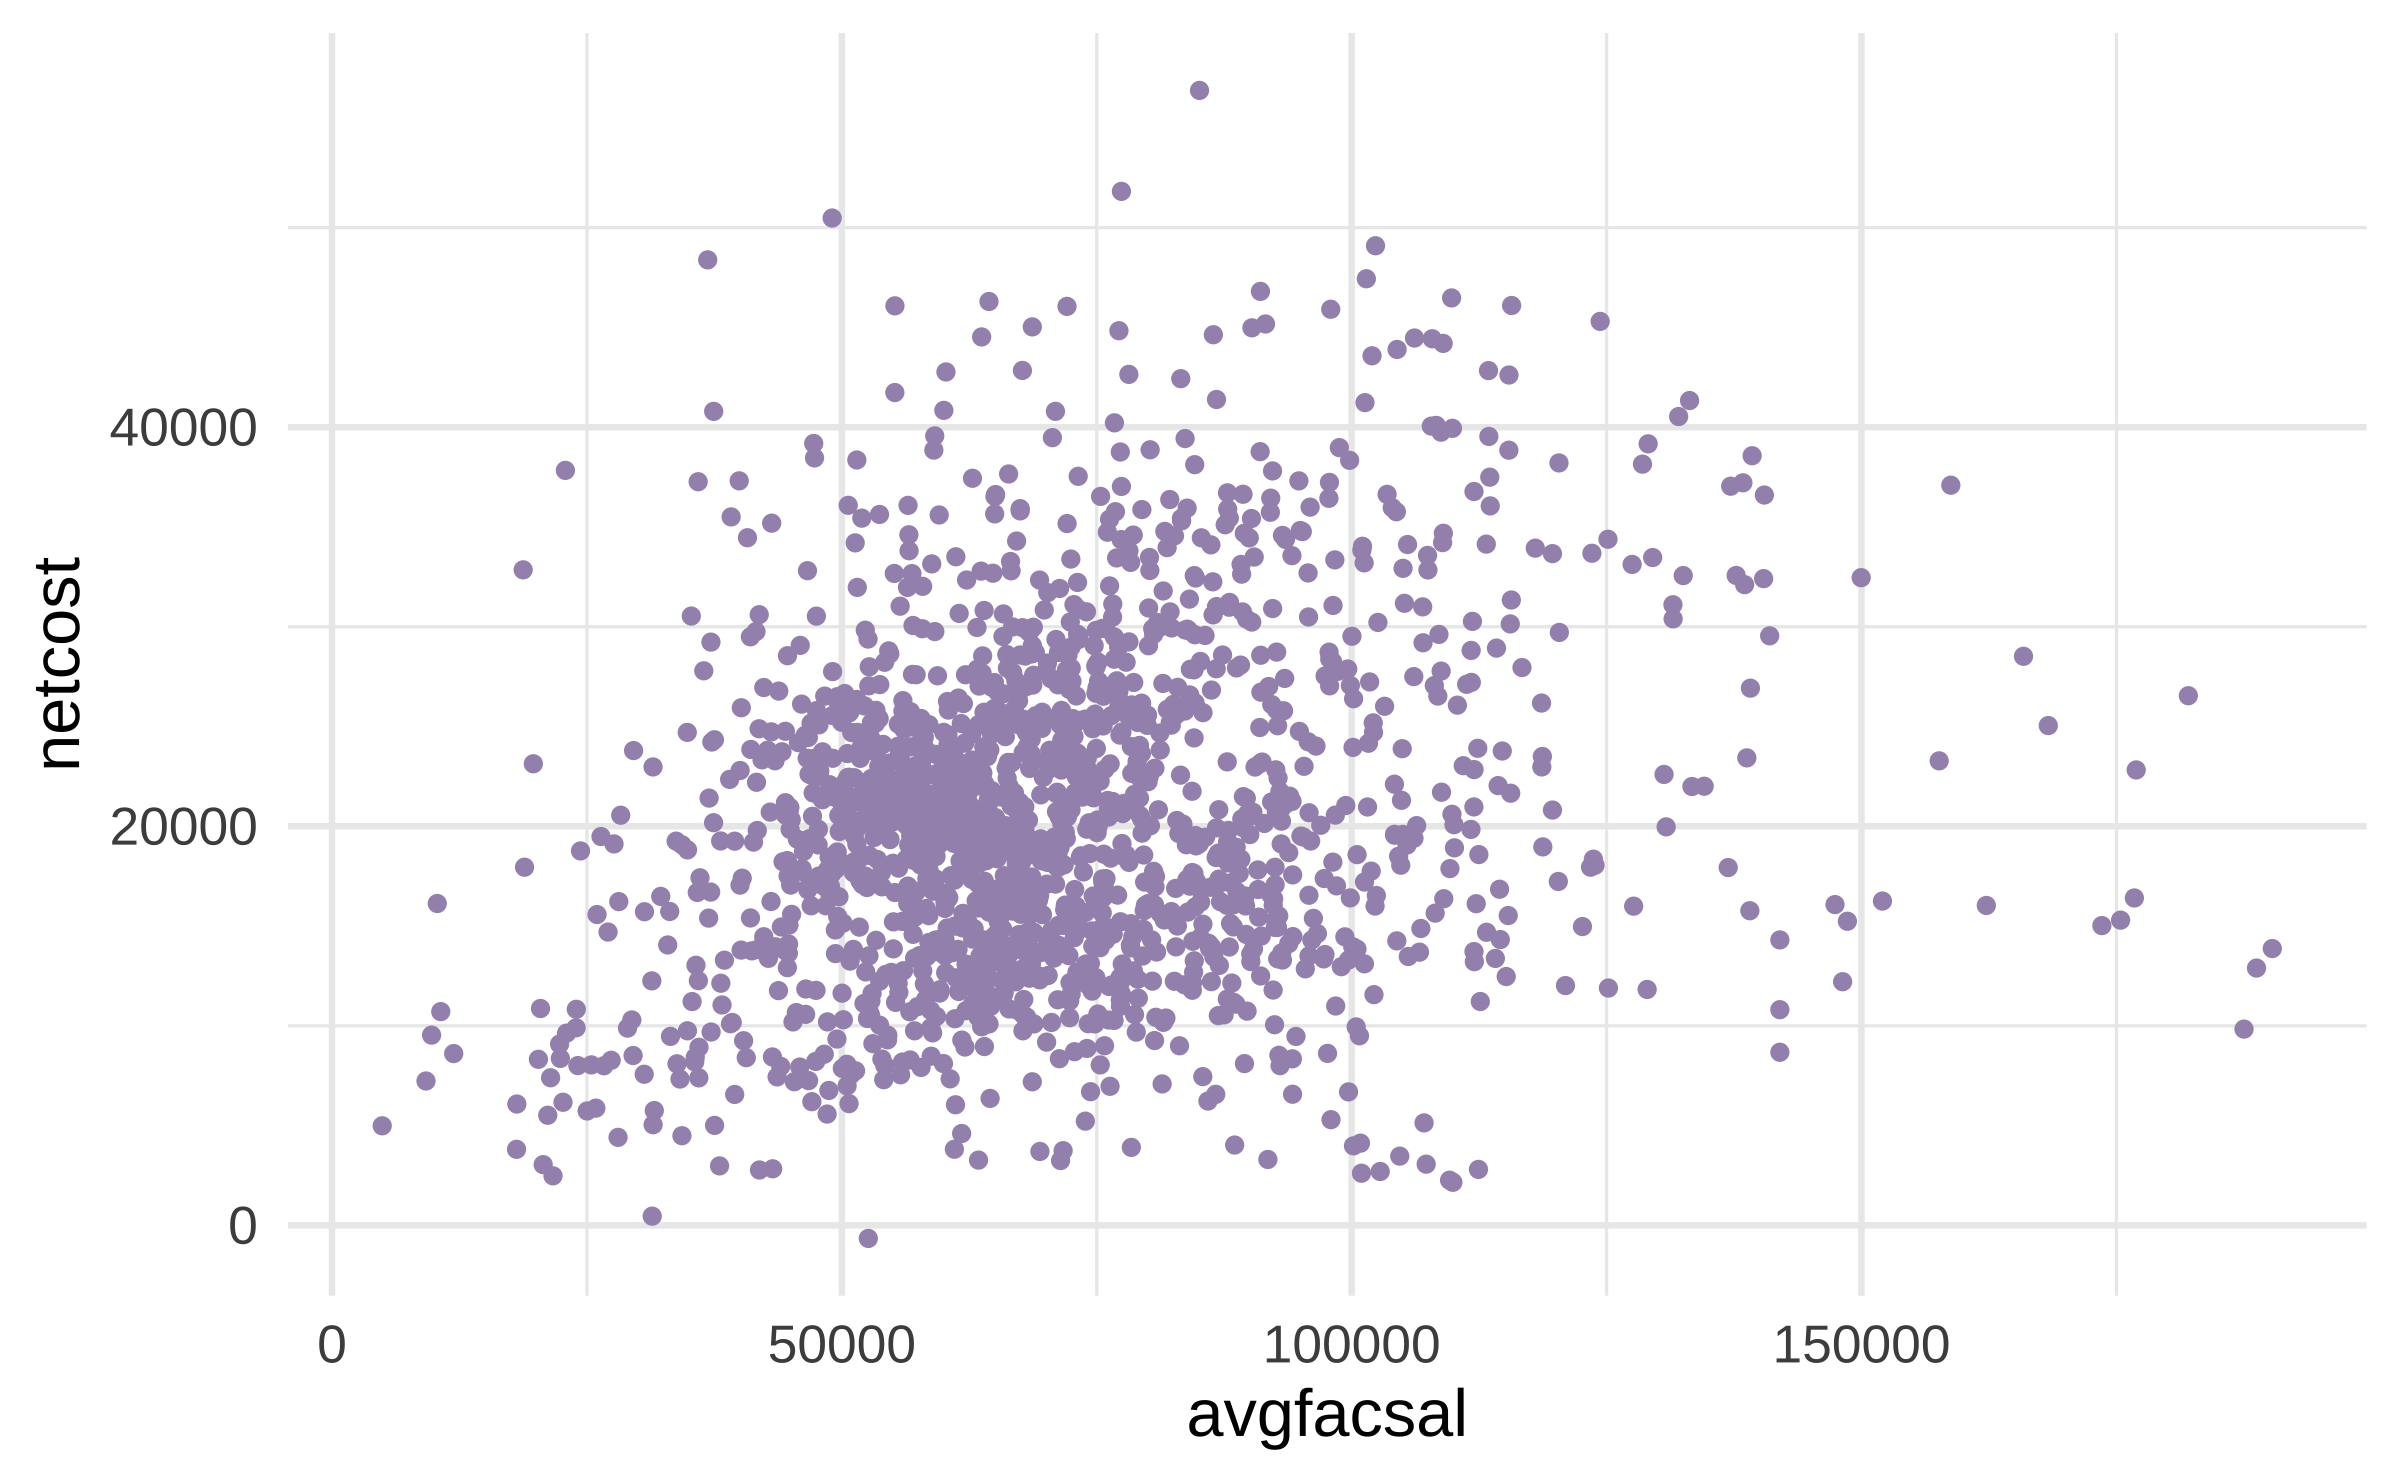
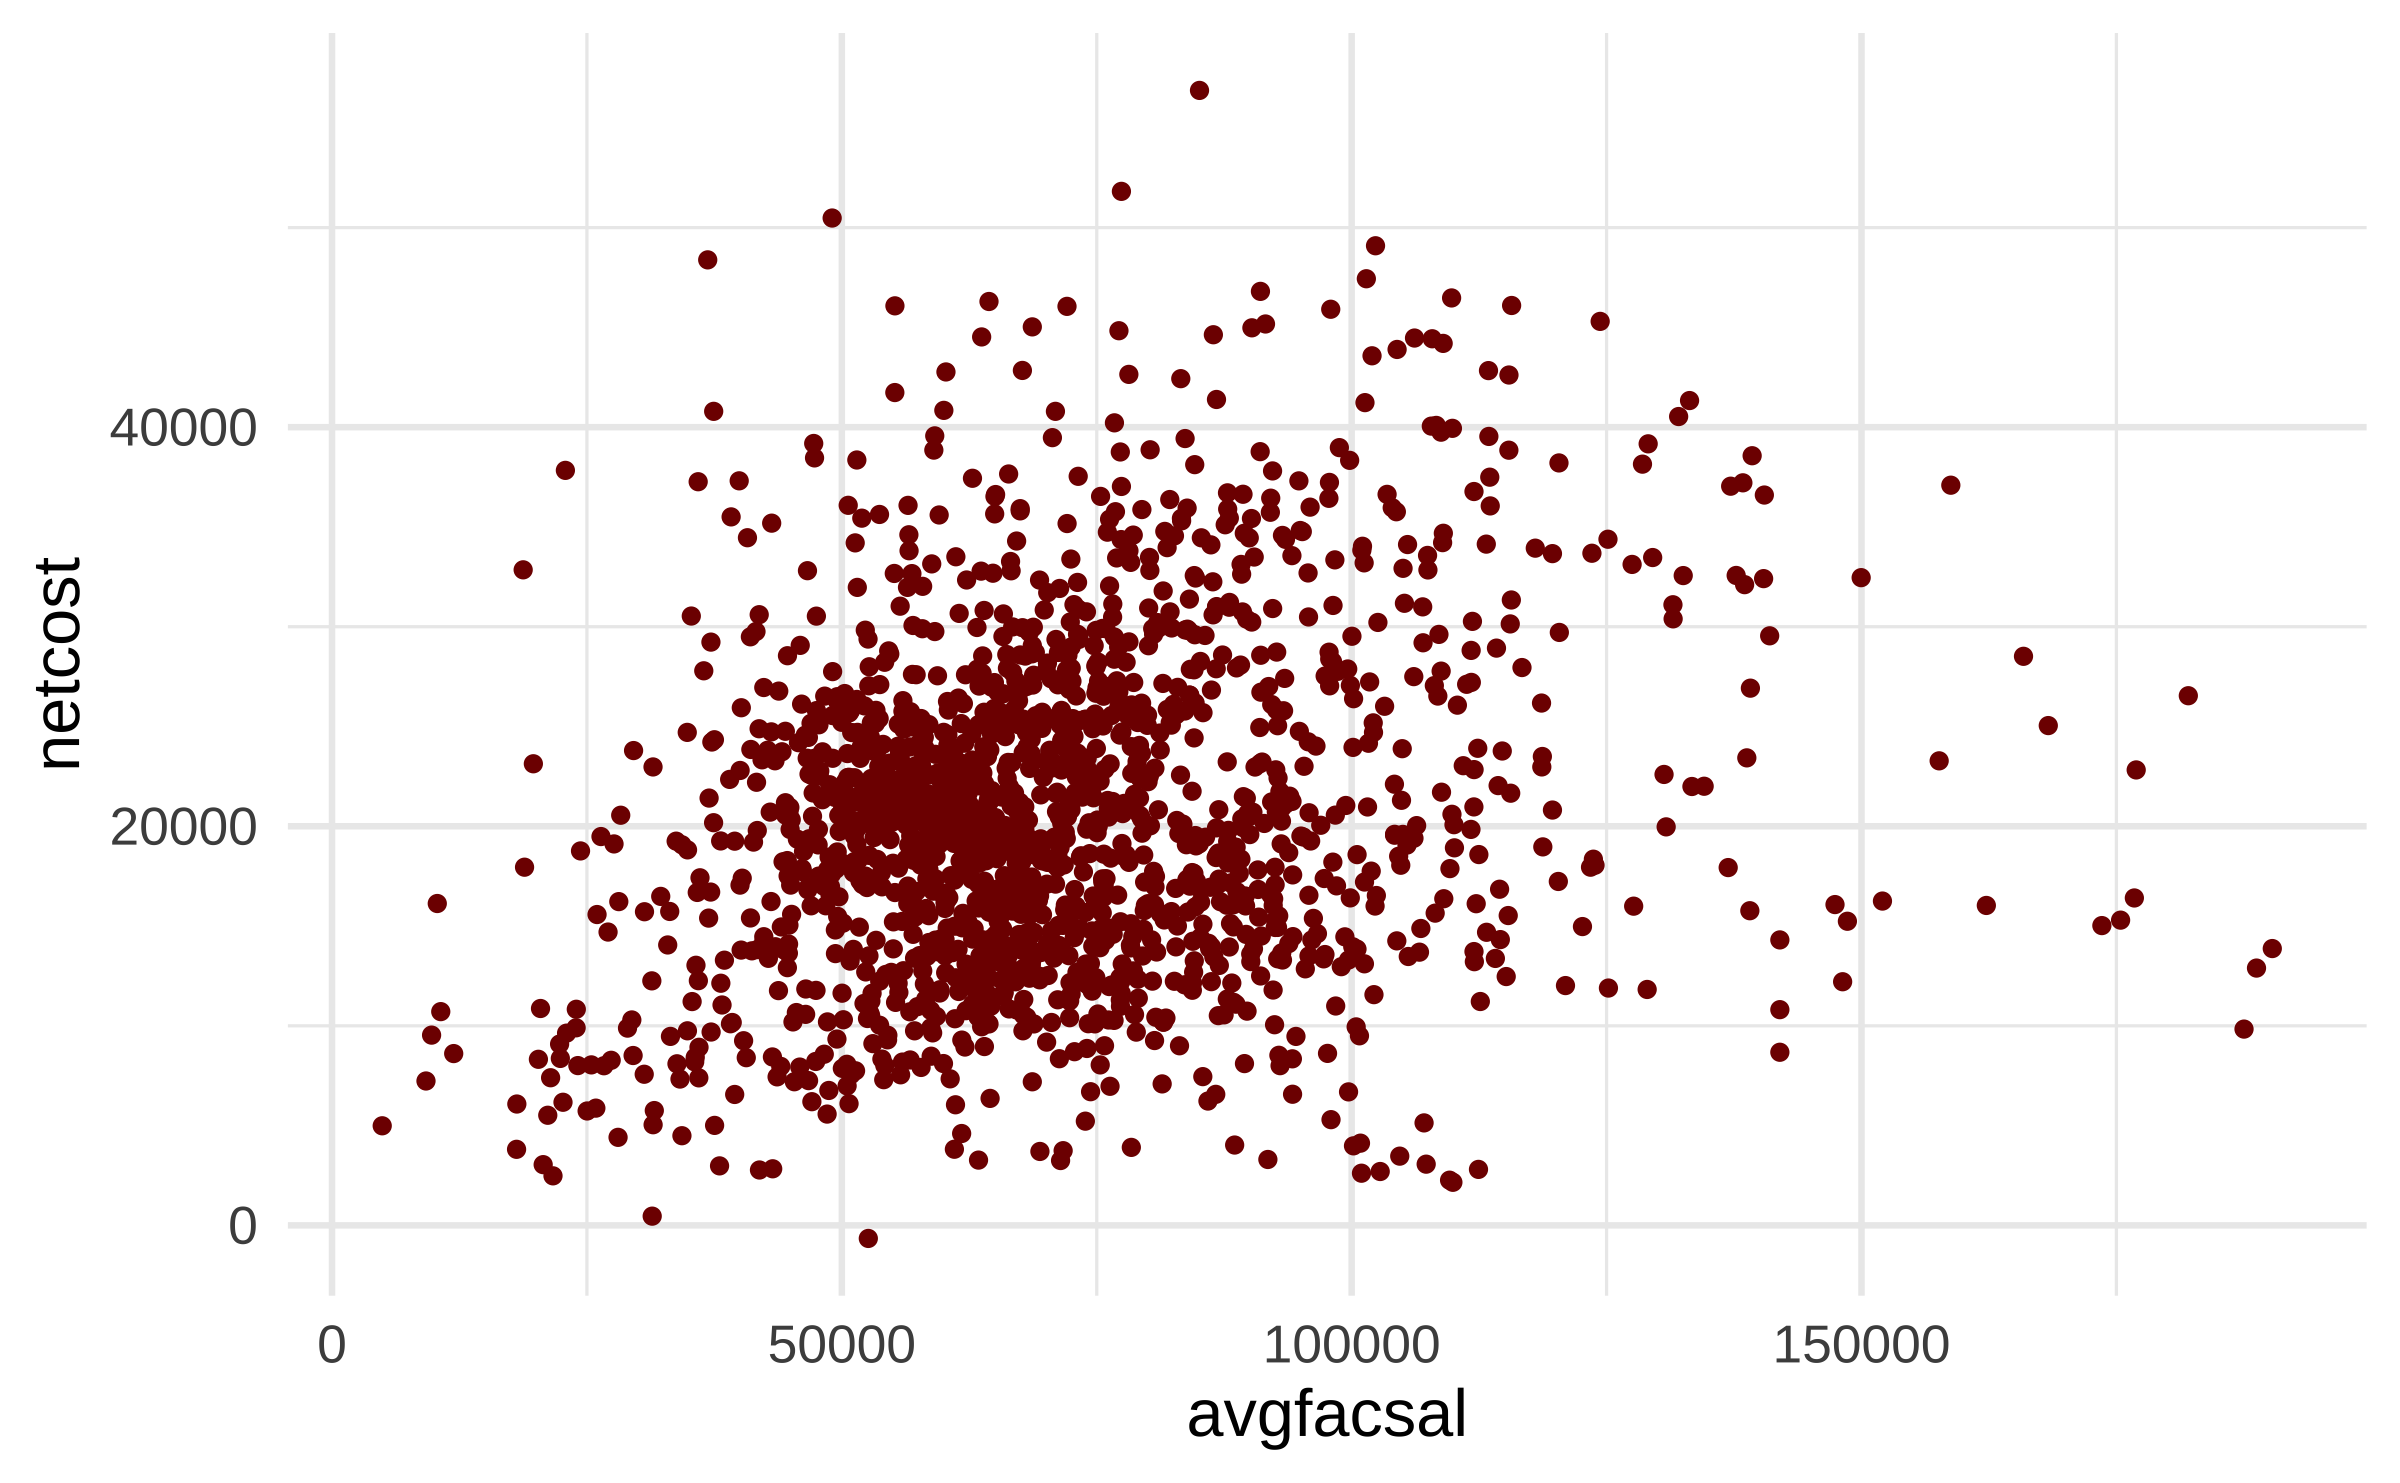
add uchicago maroon

diff --git a/static/slides/04-geoms/index.html b/static/slides/04-geoms/index.html
@@ -184,7 +184,7 @@ ggplot(scorecard, aes(x = avgfacsal, y = netcost)) +
   geom_smooth(method = "lm", se = FALSE, size = 0.5)
 ```
 
-<div class="countdown" id="timer_ddec603a" data-update-every="1" tabindex="0" style="right:0;bottom:0;">
+<div class="countdown" id="timer_3d52f8ca" data-update-every="1" tabindex="0" style="right:0;bottom:0;">
 <div class="countdown-controls"><button class="countdown-bump-down">&minus;</button><button class="countdown-bump-up">&plus;</button></div>
 <code class="countdown-time"><span class="countdown-digits minutes">03</span><span class="countdown-digits colon">:</span><span class="countdown-digits seconds">00</span></code>
 </div>
@@ -286,7 +286,7 @@ ggplot(scorecard, aes(x = avgfacsal, y = netcost)) +
 ```r
 # Plot C
 ggplot(scorecard, aes(x = avgfacsal, y = netcost)) +
-  geom_point(color = "#a493ba")
+  geom_point(color = "#800000")
 ```
 
 &lt;img src="index_files/figure-html/unnamed-chunk-14-1.png" width="60%" style="display: block; margin: auto;" /&gt;
@@ -522,7 +522,7 @@ ggplot(scorecard, aes(x = netcost)) +
 
 &lt;img src="index_files/figure-html/unnamed-chunk-31-1.png" width="80%" style="display: block; margin: auto;" /&gt;
 
-<div class="countdown" id="timer_115d5fb6" data-update-every="1" tabindex="0" style="right:0;bottom:0;">
+<div class="countdown" id="timer_123c918d" data-update-every="1" tabindex="0" style="right:0;bottom:0;">
 <div class="countdown-controls"><button class="countdown-bump-down">&minus;</button><button class="countdown-bump-up">&plus;</button></div>
 <code class="countdown-time"><span class="countdown-digits minutes">03</span><span class="countdown-digits colon">:</span><span class="countdown-digits seconds">00</span></code>
 </div>
@@ -746,7 +746,7 @@ ggplot(scorecard, aes(x = type, y = netcost)) +
 ]
 ]
 
-<div class="countdown" id="timer_770b186c" data-update-every="1" tabindex="0" style="right:0;bottom:0;">
+<div class="countdown" id="timer_37b70c54" data-update-every="1" tabindex="0" style="right:0;bottom:0;">
 <div class="countdown-controls"><button class="countdown-bump-down">&minus;</button><button class="countdown-bump-up">&plus;</button></div>
 <code class="countdown-time"><span class="countdown-digits minutes">03</span><span class="countdown-digits colon">:</span><span class="countdown-digits seconds">00</span></code>
 </div>
@@ -898,7 +898,7 @@ ggplot(mean_netcost_pctpell, aes(x = pctpell, y = mean_netcost)) +
 ]
 ]
 
-<div class="countdown" id="timer_c038f555" data-update-every="1" tabindex="0" style="right:0;bottom:0;">
+<div class="countdown" id="timer_19949fa5" data-update-every="1" tabindex="0" style="right:0;bottom:0;">
 <div class="countdown-controls"><button class="countdown-bump-down">&minus;</button><button class="countdown-bump-up">&plus;</button></div>
 <code class="countdown-time"><span class="countdown-digits minutes">03</span><span class="countdown-digits colon">:</span><span class="countdown-digits seconds">00</span></code>
 </div>
@@ -1028,7 +1028,7 @@ For each of the following problems, suggest a useful geom:
 1. Label outlying points in a single variable
 ]
 
-<div class="countdown" id="timer_d3bc9afd" data-update-every="1" tabindex="0" style="right:0;bottom:0;">
+<div class="countdown" id="timer_ad1984e7" data-update-every="1" tabindex="0" style="right:0;bottom:0;">
 <div class="countdown-controls"><button class="countdown-bump-down">&minus;</button><button class="countdown-bump-up">&plus;</button></div>
 <code class="countdown-time"><span class="countdown-digits minutes">03</span><span class="countdown-digits colon">:</span><span class="countdown-digits seconds">00</span></code>
 </div>
